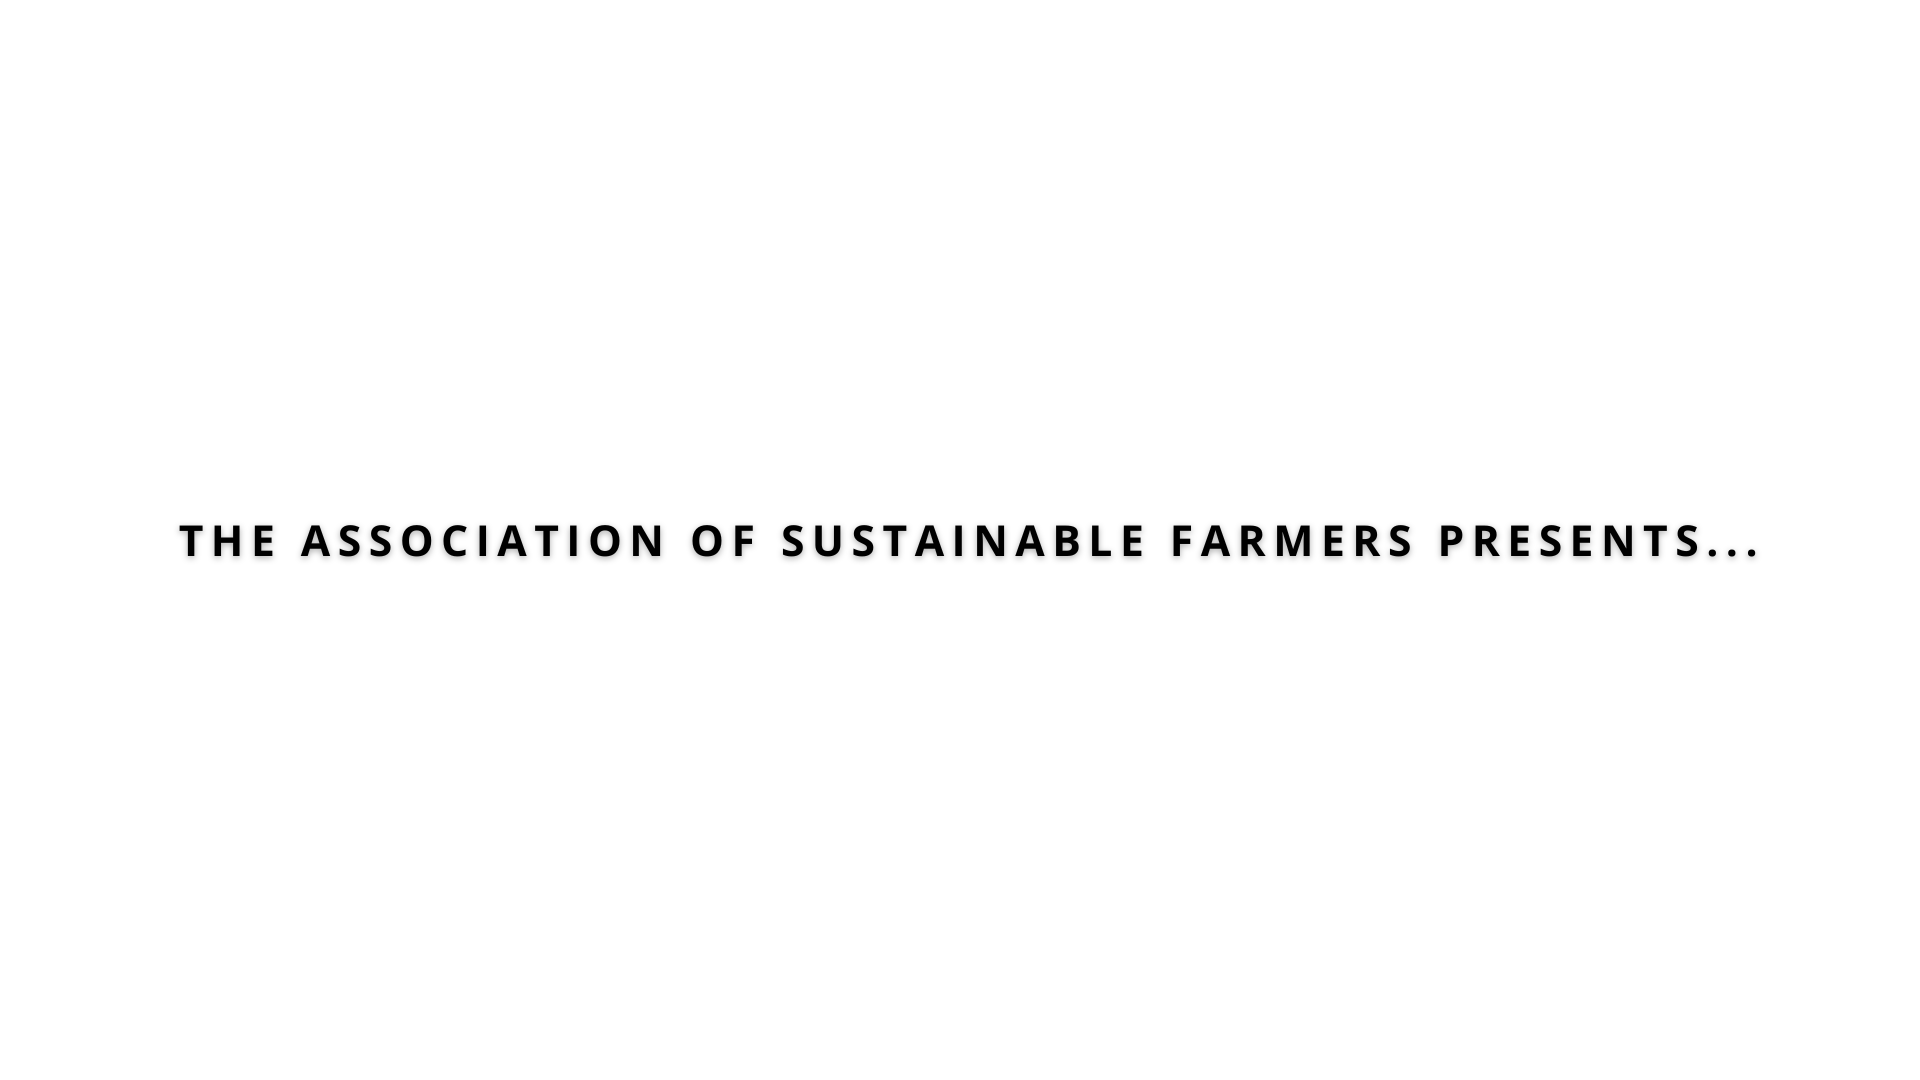
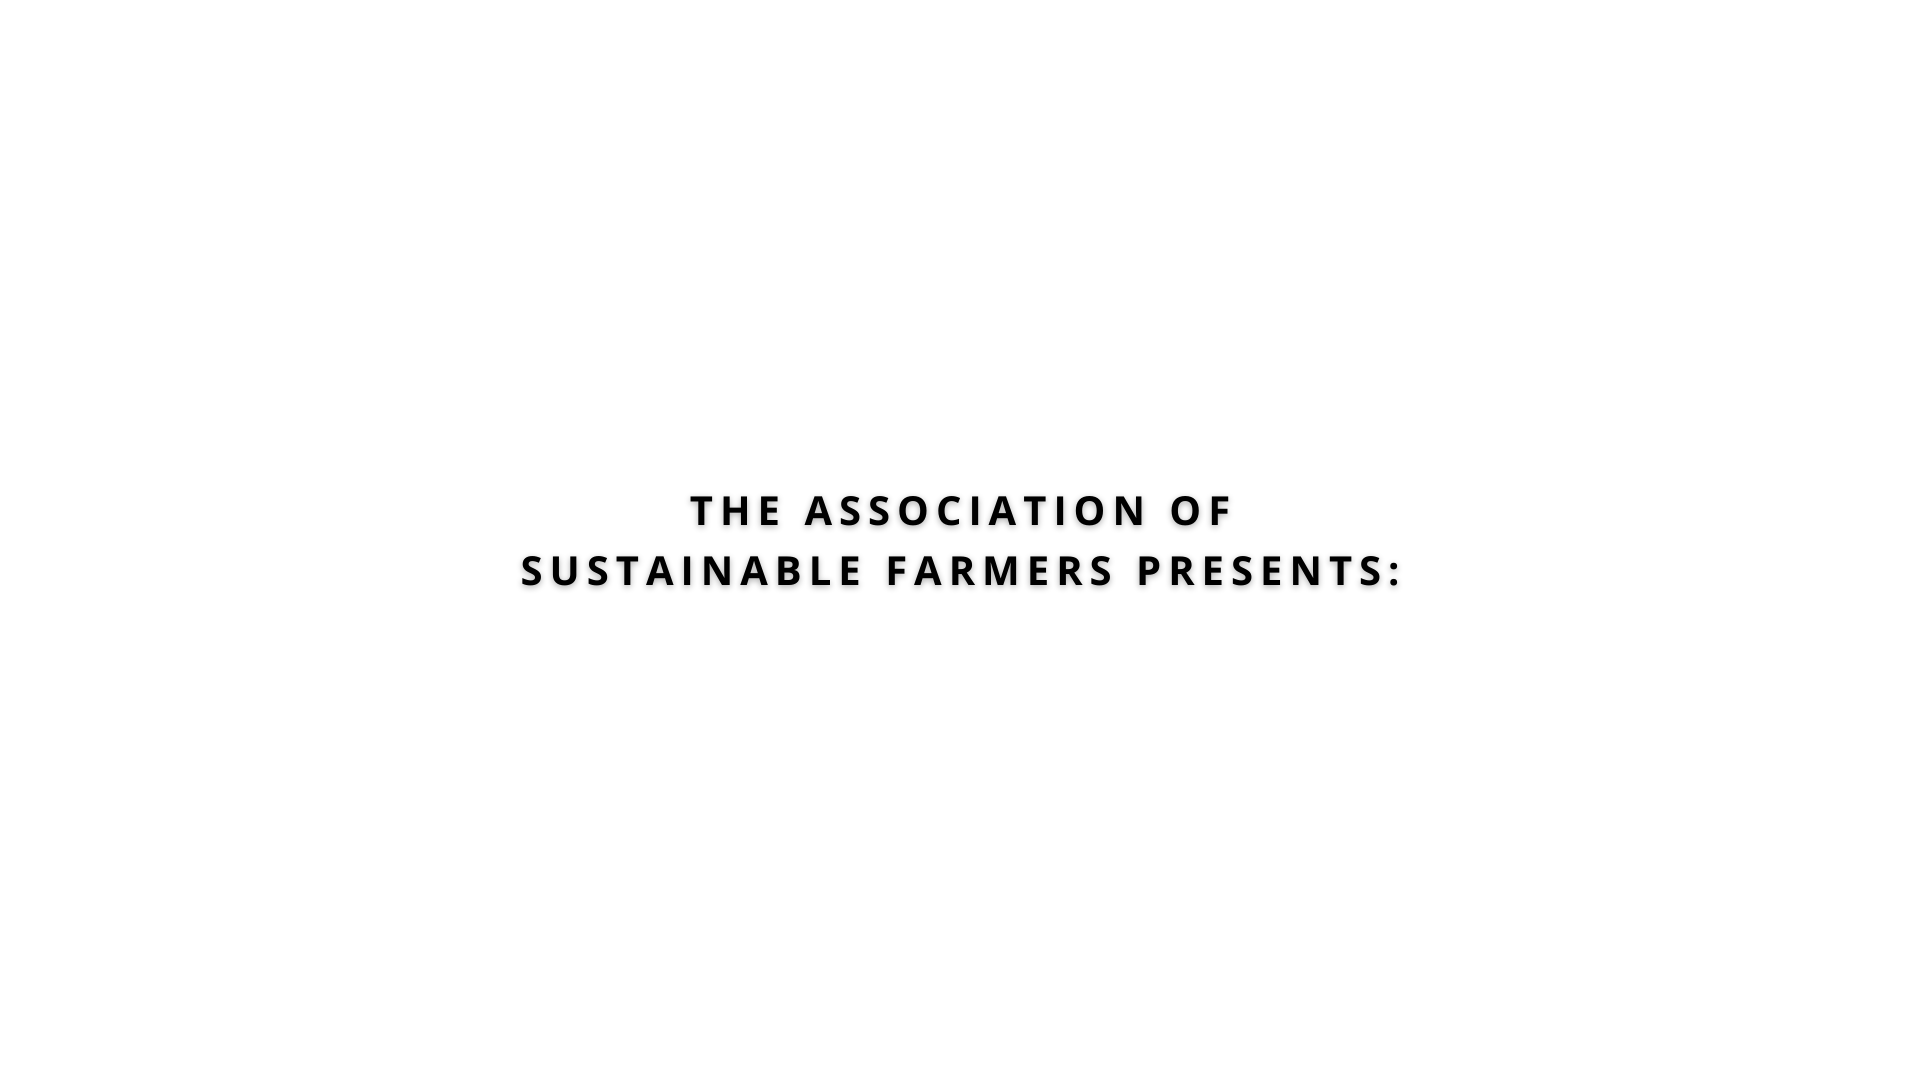
fixing title

Changed region(s): [[0.0938, 0.4583, 0.9062, 0.55]]

diff --git a/_site/src/MainMenu.js b/_site/src/MainMenu.js
@@ -5,8 +5,8 @@ class MainMenu extends Phaser.Scene {
     }
     create() {
         this.add.sprite(0, -80, 'background').setOrigin(0,0);
-    
-        this.add.sprite(0, 0, `titleAuthor`).setOrigin(0,0);
+        
+        this.add.sprite(-200, -400, `titleAuthor`).setOrigin(0,0);
 		EPT.Storage.initUnset('EPT-highscore', 0);
 		var highscore = EPT.Storage.get('EPT-highscore');
 
@@ -14,7 +14,7 @@ class MainMenu extends Phaser.Scene {
 
         var titleAuthor = this.add.sprite(EPT.world.centerX, EPT.world.centerY+50, 'titleAuthor');
         titleAuthor.setOrigin(-2,0);
-        var title = this.add.sprite(EPT.world.centerX, EPT.world.centerY-50, 'title');
+        var title = this.add.sprite(EPT.world.centerX-10, EPT.world.centerY+40, 'title');
         // title.setOrigin(0.5);
 
         this.input.keyboard.on('keydown', this.handleKey, this);

diff --git a/src/MainMenu.js b/src/MainMenu.js
@@ -5,8 +5,8 @@ class MainMenu extends Phaser.Scene {
     }
     create() {
         this.add.sprite(0, -80, 'background').setOrigin(0,0);
-    
-        this.add.sprite(0, 0, `titleAuthor`).setOrigin(0,0);
+        
+        this.add.sprite(-200, -400, `titleAuthor`).setOrigin(0,0);
 		EPT.Storage.initUnset('EPT-highscore', 0);
 		var highscore = EPT.Storage.get('EPT-highscore');
 
@@ -14,7 +14,7 @@ class MainMenu extends Phaser.Scene {
 
         var titleAuthor = this.add.sprite(EPT.world.centerX, EPT.world.centerY+50, 'titleAuthor');
         titleAuthor.setOrigin(-2,0);
-        var title = this.add.sprite(EPT.world.centerX, EPT.world.centerY-50, 'title');
+        var title = this.add.sprite(EPT.world.centerX-10, EPT.world.centerY+40, 'title');
         // title.setOrigin(0.5);
 
         this.input.keyboard.on('keydown', this.handleKey, this);
